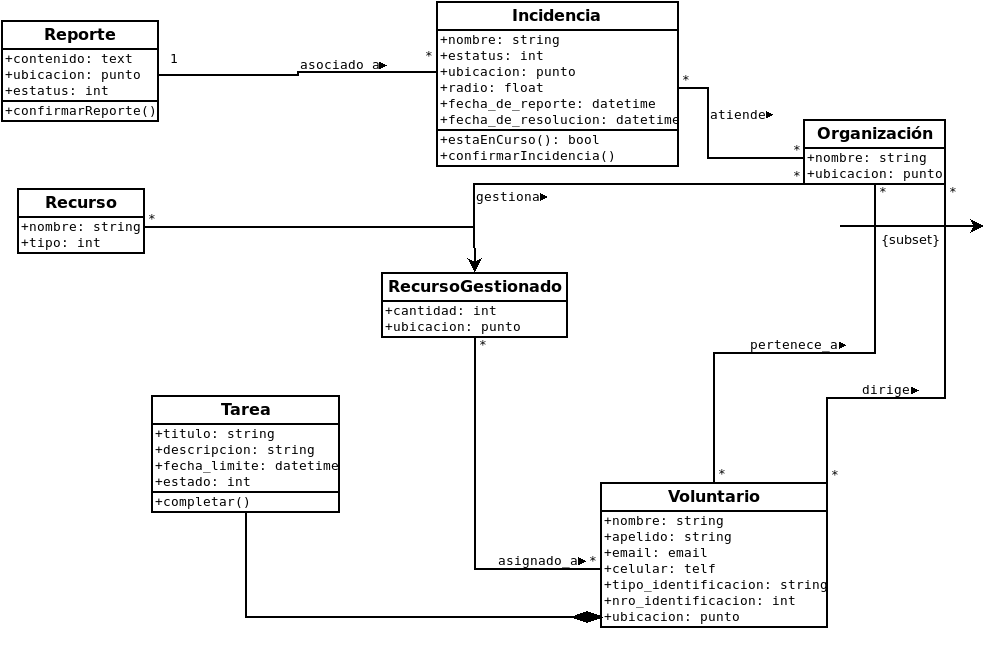
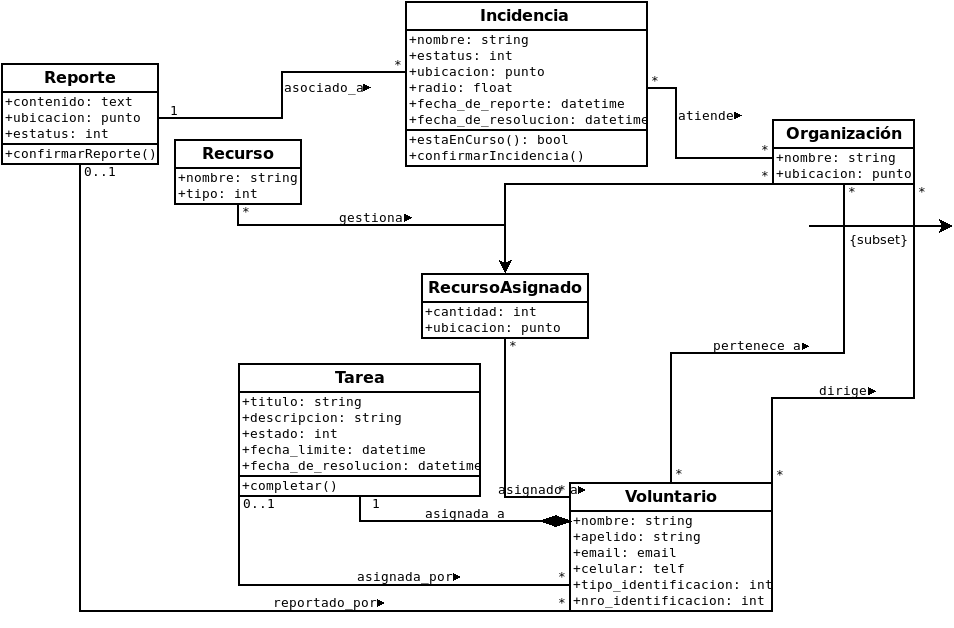
Agrega segunda versión de modelo UML de base de datos

Changed region(s): [[0.0, 0.0, 1.0, 0.9984]]

diff --git a/README.md b/README.md
@@ -9,5 +9,3 @@ Repositorio para la aplicación web (punto de encuentro principal) del software 
 ### Por considerar en la base de datos
 
 - Mensajes enviados por las organizaciones
-- Integrar usuarios de Django con voluntarios
-- Usuarios que emiten reporte, pueden ser usuarios anónimos
